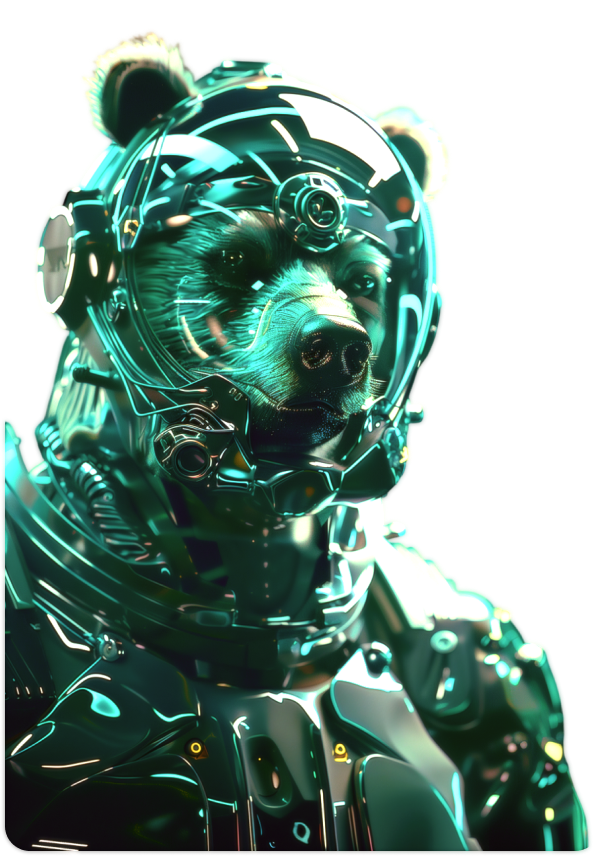
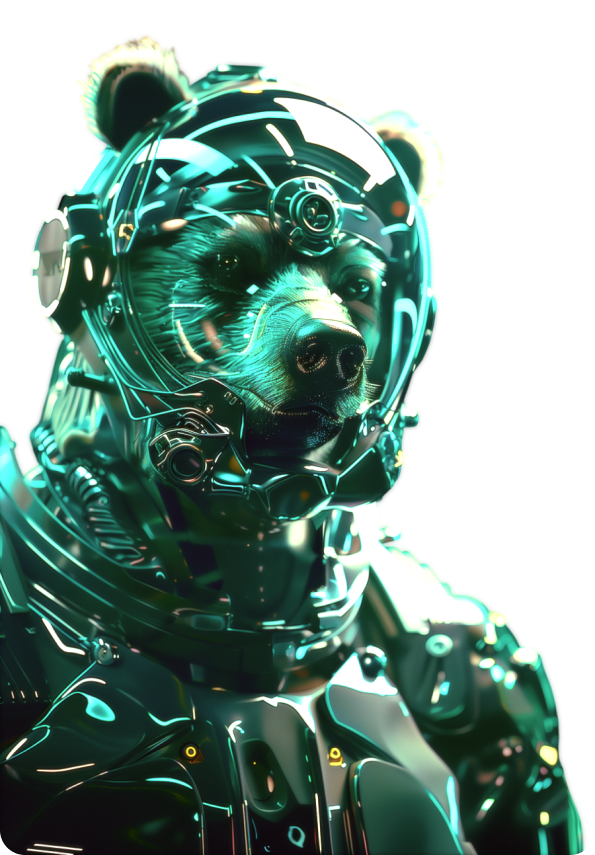
edits

Changed region(s): [[0.0, 0.0304, 0.9983, 1.0]]

diff --git a/src/components/WhyWe/WhyWe.styled.js b/src/components/WhyWe/WhyWe.styled.js
@@ -1,93 +1,87 @@
 import styled from 'styled-components';
 
-
 export const WhyWeContainer = styled.div`
-    background: black;
-    height: 100%;
-    transform : translate(0px, 0px);
-    color: #fff;
-    padding: 120px 98px 98px 98px;
-
-`
+  height: 100%;
+  transform: translate(0px, 0px);
+  color: #fff;
+  padding: 120px 98px 98px 98px;
+`;
 
 export const WhyWeMainTitle = styled.h1`
   opacity: 0; /* Скрываем изначально */
-    width: 1265px;
-font-family: 'Gunterz', sans-serif;
-font-style: normal;
-font-weight: 500;
-font-size: 262px;
-line-height: 100%;
+  width: 1265px;
+  font-family: 'Gunterz', sans-serif;
+  font-style: normal;
+  font-weight: 500;
+  font-size: 262px;
+  line-height: 100%;
 
-background: linear-gradient(123.73deg, #FFFFFF -44.77%, #45AEB1 302.21%);
--webkit-background-clip: text;
--webkit-text-fill-color: transparent;
-background-clip: text;
-text-fill-color: transparent;
+  background: linear-gradient(123.73deg, #ffffff -44.77%, #45aeb1 302.21%);
+  -webkit-background-clip: text;
+  -webkit-text-fill-color: transparent;
+  background-clip: text;
+  text-fill-color: transparent;
 
-text-shadow: 0px 0px 19.3px rgba(87, 255, 154, 0.2), 0px 0px 71.9px rgba(69, 174, 177, 0.42);
-margin:0 auto 60px auto;
-`
+  text-shadow: 0px 0px 19.3px rgba(87, 255, 154, 0.2),
+    0px 0px 71.9px rgba(69, 174, 177, 0.42);
+  margin: 0 auto 60px auto;
+`;
 
 export const WhyWeSubTitle = styled.p`
   opacity: 0; /* Скрываем изначально */
 
-font-family: 'Freigeist';
-font-style: normal;
-font-weight: 400;
-font-size: 66.7397px;
-line-height: 87px;
-width: 1265px;
-margin: 0 auto 85px auto;
-color: #FFFFFF;
+  font-family: 'Freigeist';
+  font-style: normal;
+  font-weight: 400;
+  font-size: 66.7397px;
+  line-height: 87px;
+  width: 1265px;
+  margin: 0 auto 85px auto;
+  color: #ffffff;
 `;
 
 export const WhyWeList = styled.ul`
   opacity: 0; /* Скрываем изначально */
 
-list-style: none;
-width: 1265px;
-margin: 0 auto;
-padding: 0;
-gap:133px;
-display: flex;
+  list-style: none;
+  width: 1265px;
+  margin: 0 auto;
+  padding: 0;
+  gap: 133px;
+  display: flex;
 `;
 
 export const WhyWeItem = styled.li`
-width:338px;
-border-top: 1px solid #fff;
+  width: 338px;
+  border-top: 1px solid #fff;
 `;
 
 export const WhyWeItemTitle = styled.h2`
-width: 338px;
-height: 25px;
-font-family: 'Freigeist';
-font-style: normal;
-font-weight: 400;
-font-size: 28.4904px;
-line-height: 86.5%;
-/* identical to box height, or 25px */
-letter-spacing: -0.02em;
+  width: 338px;
+  height: 25px;
+  font-family: 'Freigeist';
+  font-style: normal;
+  font-weight: 400;
+  font-size: 28.4904px;
+  line-height: 86.5%;
+  /* identical to box height, or 25px */
+  letter-spacing: -0.02em;
 
-color: #FFFFFF;
-
-
+  color: #ffffff;
 `;
 
 export const WhyWeItemSubTitle = styled.p`
+  width: 338px;
+  height: 259px;
+  font-family: 'Freigeist';
+  font-style: normal;
+  font-weight: 400;
+  font-size: 28.4904px;
+  line-height: 104%;
+  /* or 30px */
+  letter-spacing: -0.02em;
 
-width: 338px;
-height: 259px;
-font-family: 'Freigeist';
-font-style: normal;
-font-weight: 400;
-font-size: 28.4904px;
-line-height: 104%;
-/* or 30px */
-letter-spacing: -0.02em;
+  color: #ffffff;
 
-color: #FFFFFF;
-
-text-shadow: 0px 5.18008px 20.7203px rgba(0, 0, 0, 0.68);
-
+  text-shadow: 0px 5.18008px 20.7203px rgba(0, 0, 0, 0.68);
 `;

diff --git a/src/components/AboutUs/AboutUs.styled.js b/src/components/AboutUs/AboutUs.styled.js
@@ -15,15 +15,33 @@ export const AboutUsSubContainer = styled.div`
 `;
 
 export const AboutUsBigContainer = styled.div`
+  position: relative;
   width: 595px;
   height: 900px;
-
+  border-radius: 25px;
   background: linear-gradient(
     150.1deg,
     rgba(17, 9, 24, 0.4) 8.38%,
     rgba(50, 67, 87, 0.4) 91.62%
   );
-  border-radius: 25px;
+  z-index: 1; /* Чтобы содержимое отображалось поверх */
+
+  /* Псевдоэлемент для градиентной рамки */
+  &::before {
+    content: '';
+    position: absolute;
+    top: 0;
+    left: 0;
+    right: 0;
+    bottom: 0;
+    border-radius: 25px;
+    padding: 1px; /* Толщина градиентной рамки */
+    background: linear-gradient(30deg, #57ff9a 30%, #2fe0f3 100%);
+    -webkit-mask: linear-gradient(#fff 0 0) content-box,
+      linear-gradient(#fff 0 0);
+    mask-composite: exclude;
+    z-index: -1; /* Убираем псевдоэлемент за контент */
+  }
 `;
 
 export const AboutUsSmallContainer = styled.div`
@@ -50,6 +68,7 @@ export const ArrowLink = styled.img`
 export const BearImg = styled.img`
   width: 595px;
   height: 900px;
+  margin: 0 0 1px 0;
 `;
 export const AboutUsGreenText = styled.p`
   margin: 0 0 30px 0;
@@ -86,22 +105,27 @@ export const AboutUsTransparentText = styled.span`
   text-align: right;
   color: transparent; /* Делаем текст прозрачным */
   -webkit-text-stroke: 2px black; /* Устанавливаем границы текста */
+  font-stretch: 150%;
 `;
 
 export const AboutUsLinearText = styled.p`
   margin: 0;
-font-family: 'Gunterz', sans-serif;
-font-style: normal;
-font-weight: 500;
-font-size: 59px;
-line-height: 100%;
-text-align: right;
-background: linear-gradient(133.09deg, #FFFFFF -85.54%, rgba(255, 255, 255, 0) 104.49%);
--webkit-background-clip: text;
--webkit-text-fill-color: transparent;
-background-clip: text;
-text-fill-color: transparent;
-`
+  font-family: 'Gunterz', sans-serif;
+  font-style: normal;
+  font-weight: 500;
+  font-size: 59px;
+  line-height: 100%;
+  text-align: right;
+  background: linear-gradient(
+    133.09deg,
+    #ffffff -85.54%,
+    rgba(255, 255, 255, 0) 104.49%
+  );
+  -webkit-background-clip: text;
+  -webkit-text-fill-color: transparent;
+  background-clip: text;
+  text-fill-color: transparent;
+`;
 
 export const AboutUsSmallerContainer = styled.div`
   display: flex;

diff --git a/src/components/AboutUs/AboutUs.jsx b/src/components/AboutUs/AboutUs.jsx
@@ -11,13 +11,14 @@ import {
   BearImg,
 } from './AboutUs.styled';
 import first_bear from '../../image/first_bear.png';
+import second_bear from '../../image/second_bear.png';
 
 const AboutUs = () => {
   return (
     <AboutUsMainContainer>
       <AboutUsSubContainer>
         <AboutUsBigContainer>
-          {/* <BearImg src={first_bear} alt="first_bear" /> */}
+          <BearImg src={first_bear} alt="first_bear" />
         </AboutUsBigContainer>
         <AboutUsSmallContainer>
           <AboutUsSmallerContainer>
@@ -44,8 +45,32 @@ const AboutUs = () => {
         </AboutUsSmallContainer>
       </AboutUsSubContainer>
       <AboutUsSubContainer>
-        <AboutUsSmallContainer>dsada</AboutUsSmallContainer>
-        <AboutUsBigContainer>dsada</AboutUsBigContainer>
+        <AboutUsSmallContainer>
+          <AboutUsSmallerContainer>
+            <AboutUsGreenText>ШІ як інструмент</AboutUsGreenText>
+            <AboutUsSmallGreyText>
+              ШІ у веброзробці: швидкість, точність і сайт, що працює ТА ДУМАЄ
+              не замість, а для вас.
+            </AboutUsSmallGreyText>
+          </AboutUsSmallerContainer>
+          <AboutUsSmallerContainer>
+            <>
+              <AboutUsTransparentText>
+                СВІ
+                <br />
+                ЖИЙ
+              </AboutUsTransparentText>
+              <AboutUsLinearText>
+                ПОГ
+                <br />
+                ЛЯД
+              </AboutUsLinearText>
+            </>
+          </AboutUsSmallerContainer>
+        </AboutUsSmallContainer>
+        <AboutUsBigContainer>
+          <BearImg src={second_bear} alt="first_bear" />
+        </AboutUsBigContainer>
       </AboutUsSubContainer>
     </AboutUsMainContainer>
   );

diff --git a/src/addition/ContactForm/ContactForm.styled.jsx b/src/addition/ContactForm/ContactForm.styled.jsx
@@ -185,6 +185,7 @@ export const SubmitButton = styled.a`
     border-color: #57ff9a;
     box-shadow: 0px 0px 10px #57ff9a;
   }
+
 `;
 
 export const ArrowContLink = styled.img`
